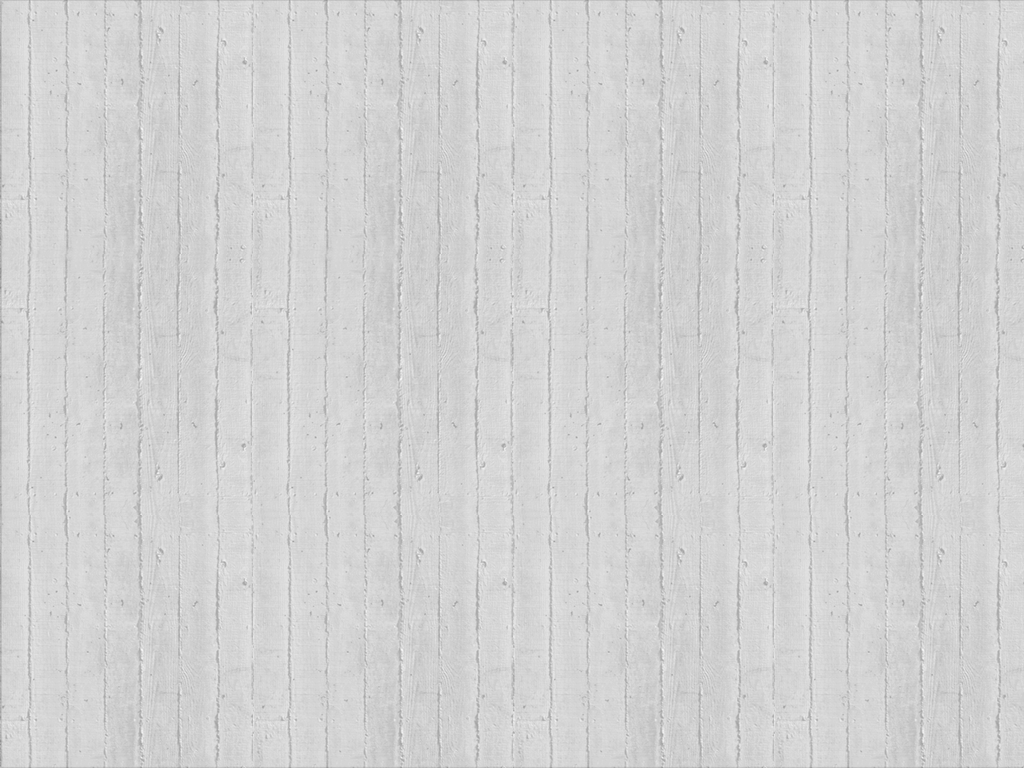
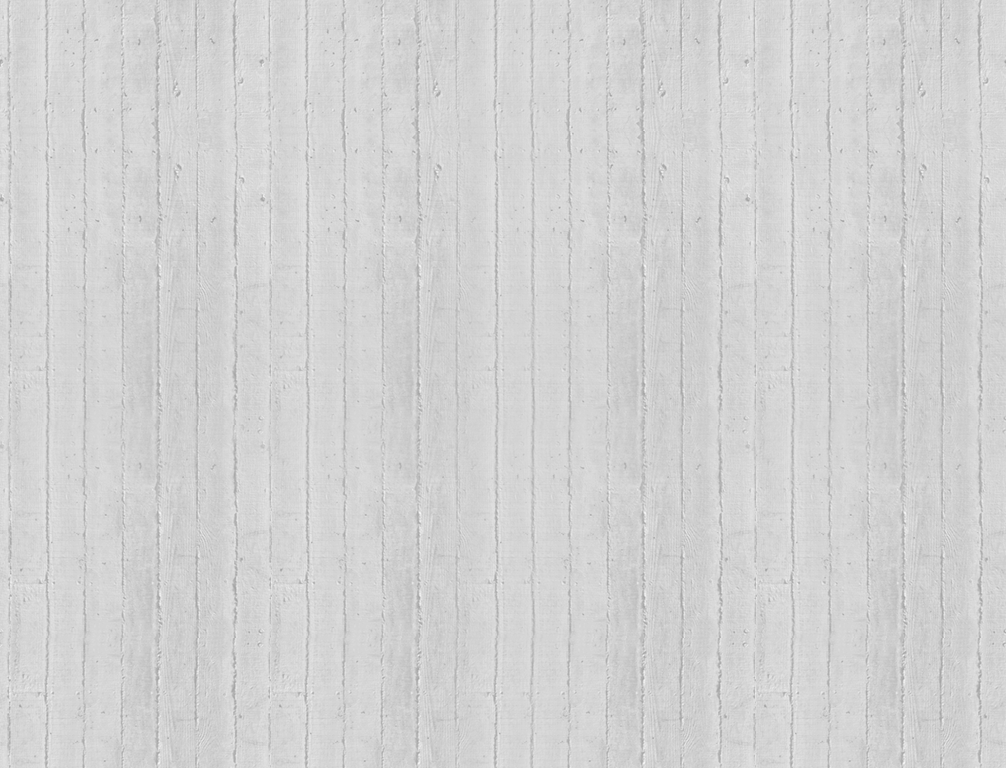
Background

diff --git a/media/css/style.css b/media/css/style.css
@@ -49,12 +49,6 @@ a:hover {
 	text-decoration: underline;
 }
 
-
-html, body, body > div
-{
-    height: 100%;
-    overflow: hidden;
-}
 * {
 	-webkit-tap-highlight-color: rgba(0,0,0,0);
 }
@@ -62,6 +56,7 @@ body {
 	text-align: center;
 	background-color: gray;
 	position: relative;
+	background-image: url(../images/background.png);
 }
 .button:hover {
 	cursor: pointer;
